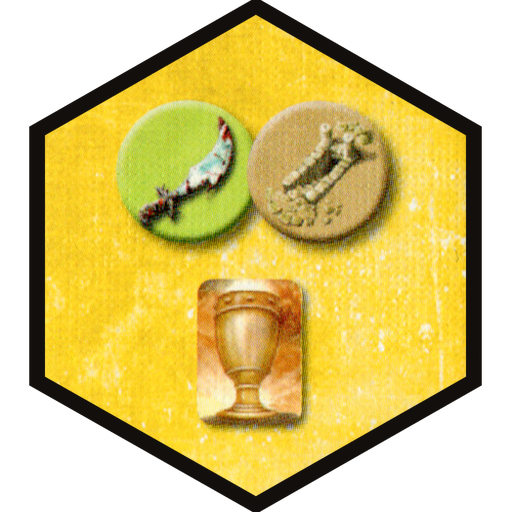
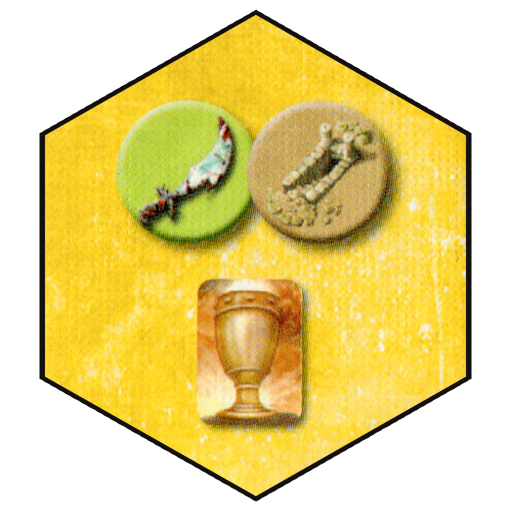
Thin ruin/altar hexagon border to match other tokens
The hexagonal Ruin tokens (the RUIN pile back and every ruin/altar face)
carried a ~16px black border baked into the PNG alpha - ~3.5% of the
hexagon span, far heavier than the round enemy faces (no black ring) or
the reward tiles' 1dp outline. The Enemy Picker draws these hexagons with
no Compose clip/border (the `isHex` path in EnemyTokenArt.kt), so the
outline lives only in the bitmap and the fix has to be in the art.

Add tools/thin_ruin_borders.py, which erodes each hexagon's opaque region
inward with an anti-aliased edge to trim the outer part of the ring down
to ~5px, and run it over all 16 hexagon PNGs (15 faces + backs/ruin.png).
The script is idempotent (it measures each token's current border and
skips any already thin enough), so re-running it after new ruin art is
added brings that art in line too. Also note the pass in the assets
README and ignore Python bytecode.

Closes #284

Claude-Session: https://claude.ai/code/session_01FkAgyQ24r8WBtqSQX5gtmE

Changed region(s): [[0.0312, 0.0, 0.9688, 1.0]]

diff --git a/tools/thin_ruin_borders.py b/tools/thin_ruin_borders.py
@@ -1,0 +1,163 @@
+"""Thin the baked-in black hexagon border on the Ruin/Altar token art (issue #284).
+
+Why this exists
+---------------
+The hexagonal Ruin tokens - the RUIN pile back (`backs/ruin.png`) and every individual
+`ruin_*.png` face - get *both* their hexagon shape and their black outline from the PNG's own
+alpha channel: the Enemy Picker draws them with no Compose clip/border at all (`PileBackFace`'s
+`isHex` path in `app/.../ui/enemypicker/EnemyTokenArt.kt`), so the only place a border can live is
+the bitmap. The source crops carry a ~16px black ring (~3.5% of the hexagon span), which reads far
+heavier than the neighbouring tokens: the round enemy faces have no black ring and the faction
+reward tiles use a 1dp (~1%) outline. Issue #284 asks to bring the ruin border down to roughly that
+thinness so the Enemy Picker grid looks consistent.
+
+What it does
+------------
+For each targeted PNG it erodes the opaque hexagon inward by however many pixels are needed to leave
+a ~`TARGET_BORDER_PX` black ring, trimming the *outer* part of the ring and turning it transparent.
+The new outline is given a 1px anti-aliased ramp (via a Euclidean distance transform) so the trimmed
+edge stays smooth rather than jagged. The interior art and the 512x512 canvas are untouched; only the
+outermost band of formerly-black pixels becomes transparent, so the hexagon ends up a few percent
+smaller with a much thinner rim.
+
+Idempotent by design
+---------------------
+It first *measures* each token's current border thickness and only erodes by `current - target`,
+skipping any file already at/under the target (plus a small tolerance). So re-running it is a no-op,
+and if new ruin art is added later with the same heavy border, running it once brings that art in
+line too.
+
+Deps: Pillow + numpy (required); scipy (optional - gives the cleanest anti-aliased edge, falls back
+to a Pillow morphological erode if absent). Run from anywhere:
+
+    python tools/thin_ruin_borders.py            # process the repo's ruin art in place
+    python tools/thin_ruin_borders.py --dry-run  # measure + report, write nothing
+"""
+
+from __future__ import annotations
+
+import argparse
+import glob
+import os
+import sys
+
+import numpy as np
+from PIL import Image, ImageFilter
+
+# scipy's distance transform gives a clean sub-pixel anti-aliased edge; degrade gracefully without it.
+try:
+    from scipy.ndimage import distance_transform_edt
+
+    _HAVE_SCIPY = True
+except ImportError:  # pragma: no cover - scipy is present in the author's env; keep the tool portable.
+    _HAVE_SCIPY = False
+
+# Target remaining black-ring thickness, in source pixels on the 512x512 art. ~5px is ~1.1% of the
+# hexagon span, matching the reward tiles' thin 1dp outline (the "match other tokens" ask in #284).
+TARGET_BORDER_PX = 5
+# Don't bother re-processing a token whose border is already within this many px of the target - keeps
+# the pass idempotent (a second run finds ~5px borders and does nothing).
+TOLERANCE_PX = 2
+
+# Where the enemy-token art lives, relative to this script (tools/ -> repo root -> app assets).
+_REPO_ROOT = os.path.dirname(os.path.dirname(os.path.abspath(__file__)))
+_ASSET_DIR = os.path.join(_REPO_ROOT, "app", "src", "main", "assets", "enemy-tokens")
+
+
+def _opaque_mask(alpha: np.ndarray) -> np.ndarray:
+    """Boolean mask of the token body: pixels that are more opaque than transparent."""
+    return alpha > 128
+
+
+def measure_border_px(img: Image.Image) -> int:
+    """Estimate the black outline thickness by scanning the horizontal centre row.
+
+    The ruin hexagons are pointy-top with flat vertical left/right edges, so the black run inward
+    from the leftmost/rightmost opaque pixel on the middle row is a faithful read of the ring width.
+    """
+    a = np.array(img.convert("RGBA"))
+    alpha = a[:, :, 3]
+    # "black-ish" = opaque AND low luminance (the ring), so interior art isn't mistaken for border.
+    lum = a[:, :, :3].astype(int).mean(axis=2)
+    black = _opaque_mask(alpha) & (lum < 60)
+
+    row = black[a.shape[0] // 2]
+    xs = np.where(_opaque_mask(alpha[a.shape[0] // 2]))[0]
+    if xs.size == 0:
+        return 0
+
+    def run(start: int, step: int) -> int:
+        n, i = 0, start
+        while 0 <= i < row.size and row[i]:
+            n += 1
+            i += step
+        return n
+
+    # Min of the two sides guards against a stray dark art pixel touching one edge.
+    return min(run(xs.min(), +1), run(xs.max(), -1))
+
+
+def erode_alpha(img: Image.Image, erode_px: int) -> Image.Image:
+    """Return a copy whose opaque region is shrunk inward by `erode_px`, with an anti-aliased edge.
+
+    Trimming the outer band of the (black) ring is what thins the border; the RGB channels are left
+    as-is, so the anti-aliased boundary fades the old black out to transparent for a smooth rim.
+    """
+    a = np.array(img.convert("RGBA"))
+    mask = _opaque_mask(a[:, :, 3])
+
+    if _HAVE_SCIPY:
+        # Distance (px) from each opaque pixel to the nearest transparent one. Anything closer to the
+        # edge than `erode_px` is trimmed; the +0.5 gives a 1px ramp instead of a hard cut = AA.
+        dist = distance_transform_edt(mask)
+        new_alpha = np.clip(dist - erode_px + 0.5, 0.0, 1.0)
+    else:  # pragma: no cover - portability fallback when scipy isn't installed.
+        # MinFilter shrinks the white (opaque) region by ~erode_px; a light blur re-softens the edge.
+        m = Image.fromarray((mask * 255).astype(np.uint8))
+        m = m.filter(ImageFilter.MinFilter(2 * erode_px + 1)).filter(ImageFilter.GaussianBlur(0.8))
+        new_alpha = np.array(m).astype(np.float32) / 255.0
+
+    out = a.copy()
+    out[:, :, 3] = (new_alpha * 255).astype(np.uint8)
+    return Image.fromarray(out, "RGBA")
+
+
+def target_files() -> list[str]:
+    """The hexagon ruin PNGs: every `ruin_*.png` face plus the RUIN pile back. Nothing else."""
+    faces = sorted(glob.glob(os.path.join(_ASSET_DIR, "ruin_*.png")))
+    back = os.path.join(_ASSET_DIR, "backs", "ruin.png")
+    return faces + ([back] if os.path.exists(back) else [])
+
+
+def main() -> int:
+    parser = argparse.ArgumentParser(description=__doc__, formatter_class=argparse.RawDescriptionHelpFormatter)
+    parser.add_argument("--dry-run", action="store_true", help="measure + report only, write nothing")
+    args = parser.parse_args()
+
+    files = target_files()
+    if not files:
+        print(f"No ruin art found under {_ASSET_DIR}", file=sys.stderr)
+        return 1
+
+    print(f"scipy anti-aliasing: {'yes' if _HAVE_SCIPY else 'no (Pillow fallback)'}")
+    changed = 0
+    for path in files:
+        img = Image.open(path)
+        border = measure_border_px(img)
+        erode_px = round(border - TARGET_BORDER_PX)
+        rel = os.path.relpath(path, _REPO_ROOT)
+        if erode_px <= TOLERANCE_PX:
+            print(f"  skip  {rel}: border ~{border}px already thin enough")
+            continue
+        print(f"  thin  {rel}: border ~{border}px -> ~{TARGET_BORDER_PX}px (erode {erode_px}px)")
+        if not args.dry_run:
+            erode_alpha(img, erode_px).save(path, optimize=True)
+        changed += 1
+
+    verb = "would change" if args.dry_run else "changed"
+    print(f"Done: {verb} {changed} of {len(files)} file(s).")
+    return 0
+
+
+if __name__ == "__main__":
+    raise SystemExit(main())

diff --git a/app/src/main/assets/enemy-tokens/README.md b/app/src/main/assets/enemy-tokens/README.md
@@ -80,6 +80,18 @@ mean the physical tokens don't actually share one uniform back per color. Same c
 pipeline as the faces (512×512 JPEG, quality 85); no separate cross-check needed since the mod JSON
 already gives a single unambiguous URL per pile.
 
+## Post-processing
+
+The hexagonal Ruin art (`ruin_*.png` faces + `backs/ruin.png`) originally carried a ~16px baked-in
+black border - ~3.5% of the hexagon span, far heavier than the round enemy faces (no black ring) or
+the reward tiles' 1dp outline. Issue #284 thinned that ring to ~5px so the Enemy Picker grid reads
+consistently. Since the hexagon's shape *and* border both come from the PNG alpha (the `isHex` path
+in `EnemyTokenArt.kt` draws it with no Compose clip/border), the fix is in the bitmap, not code:
+`tools/thin_ruin_borders.py` erodes the opaque hexagon inward with an anti-aliased edge, trimming the
+outer part of the black ring. It's idempotent (measures each token's current border and skips any
+already thin enough), so re-running it - e.g. after adding new ruin art with the same heavy border -
+is safe and brings the new art in line too.
+
 ## Licensing
 
 All art is official WizKids / Vlaada Chvátil art, here via a fan-made Tabletop Simulator mod
